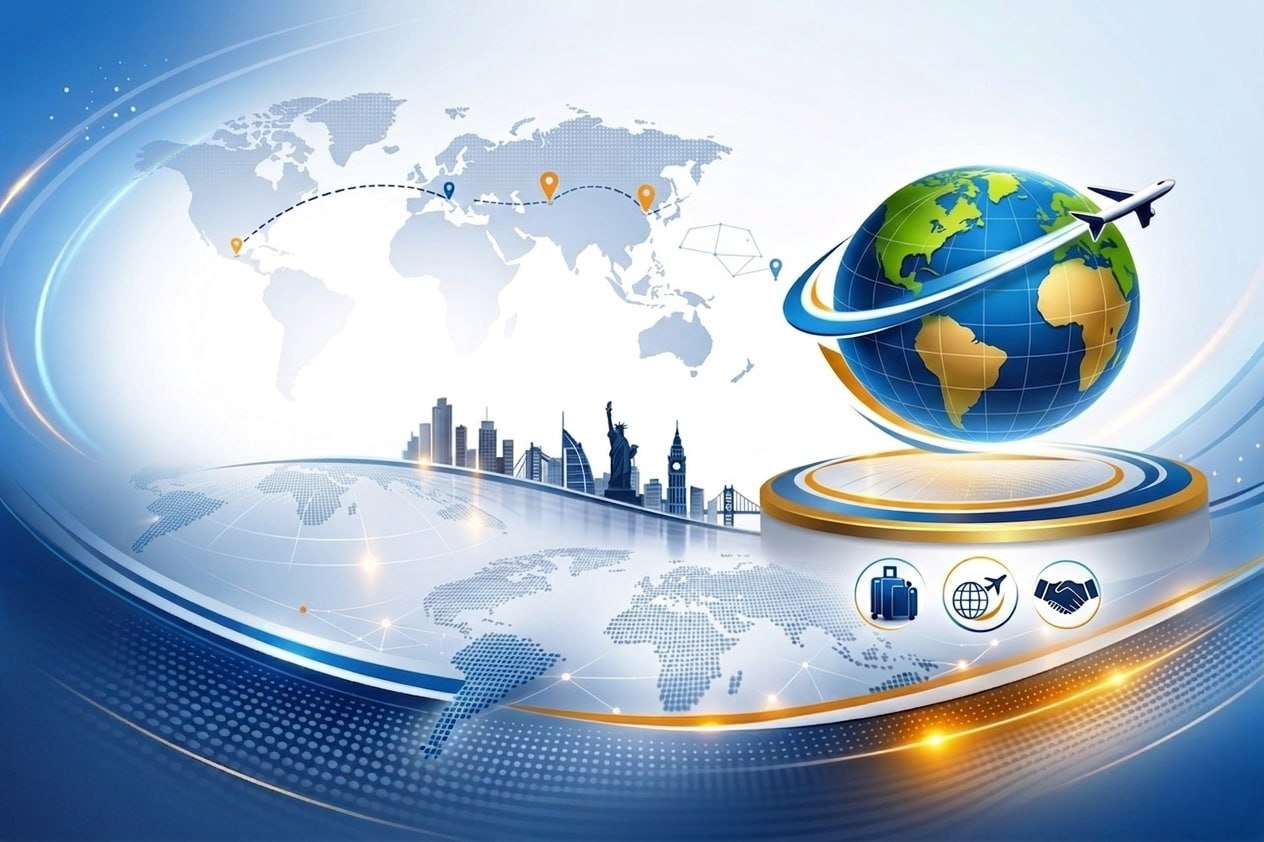
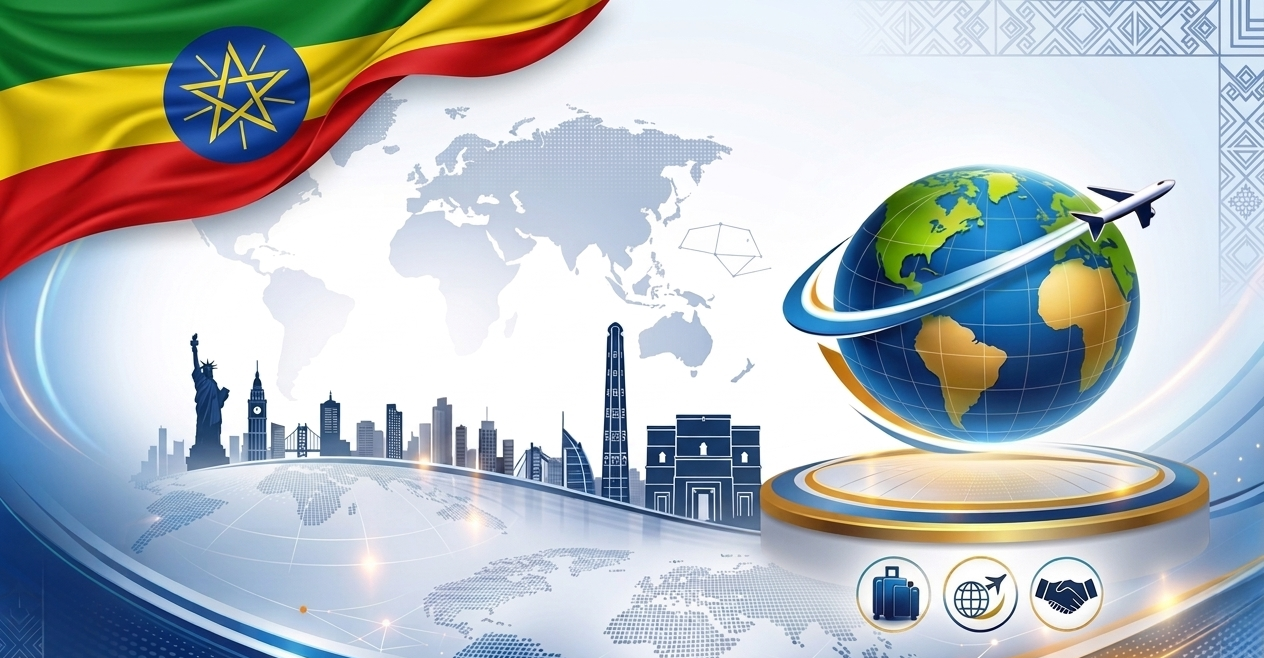
add Ethiopian flag to hero image

diff --git a/src/domains/public/components/Hero/Hero.module.css b/src/domains/public/components/Hero/Hero.module.css
@@ -3,7 +3,7 @@
   background-size: cover;
   background-position: center center;
   background-repeat: no-repeat;
-  min-height: 100vh;
+  min-height: 100%;
   display: flex;
   align-items: center;
   position: relative;
@@ -141,6 +141,6 @@
   }
   .hero-banner {
     min-height: 100svh;
+    background-image: url("../../../../assets/img/banner/mobile-banner.png");
   }
- 
 }

diff --git a/src/index.css b/src/index.css
@@ -9,6 +9,6 @@
 /*
 
 git add .
-git commit -m "add hover effect to all cards in admin dashboard"
+git commit -m "add Ethiopian flag to hero image"
 
  */
